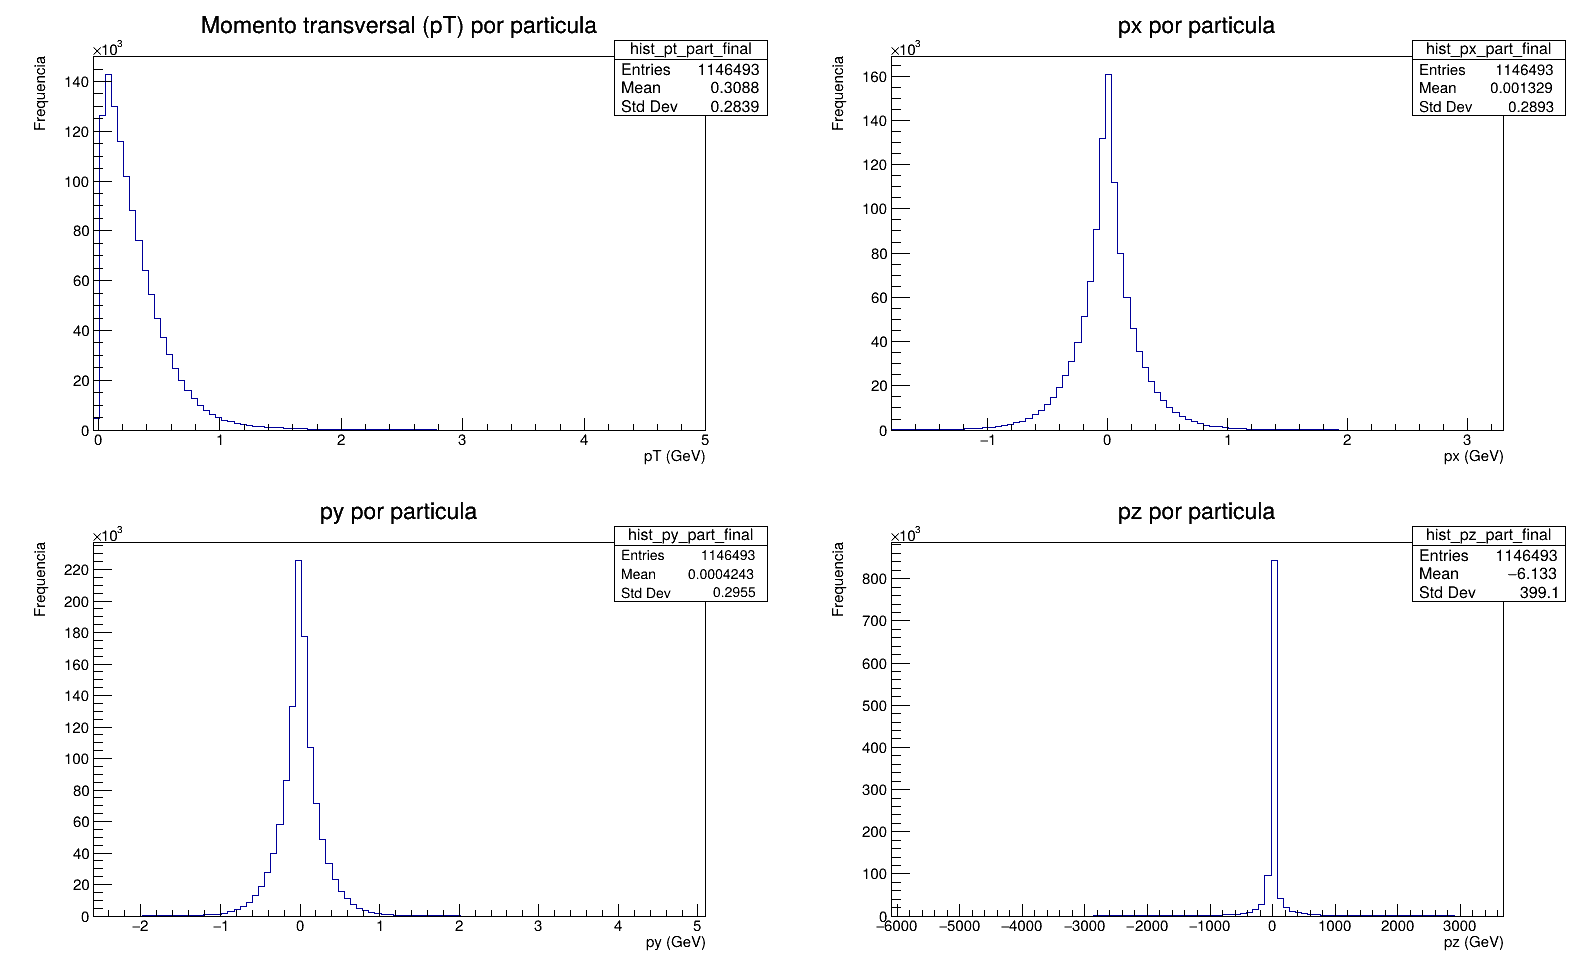
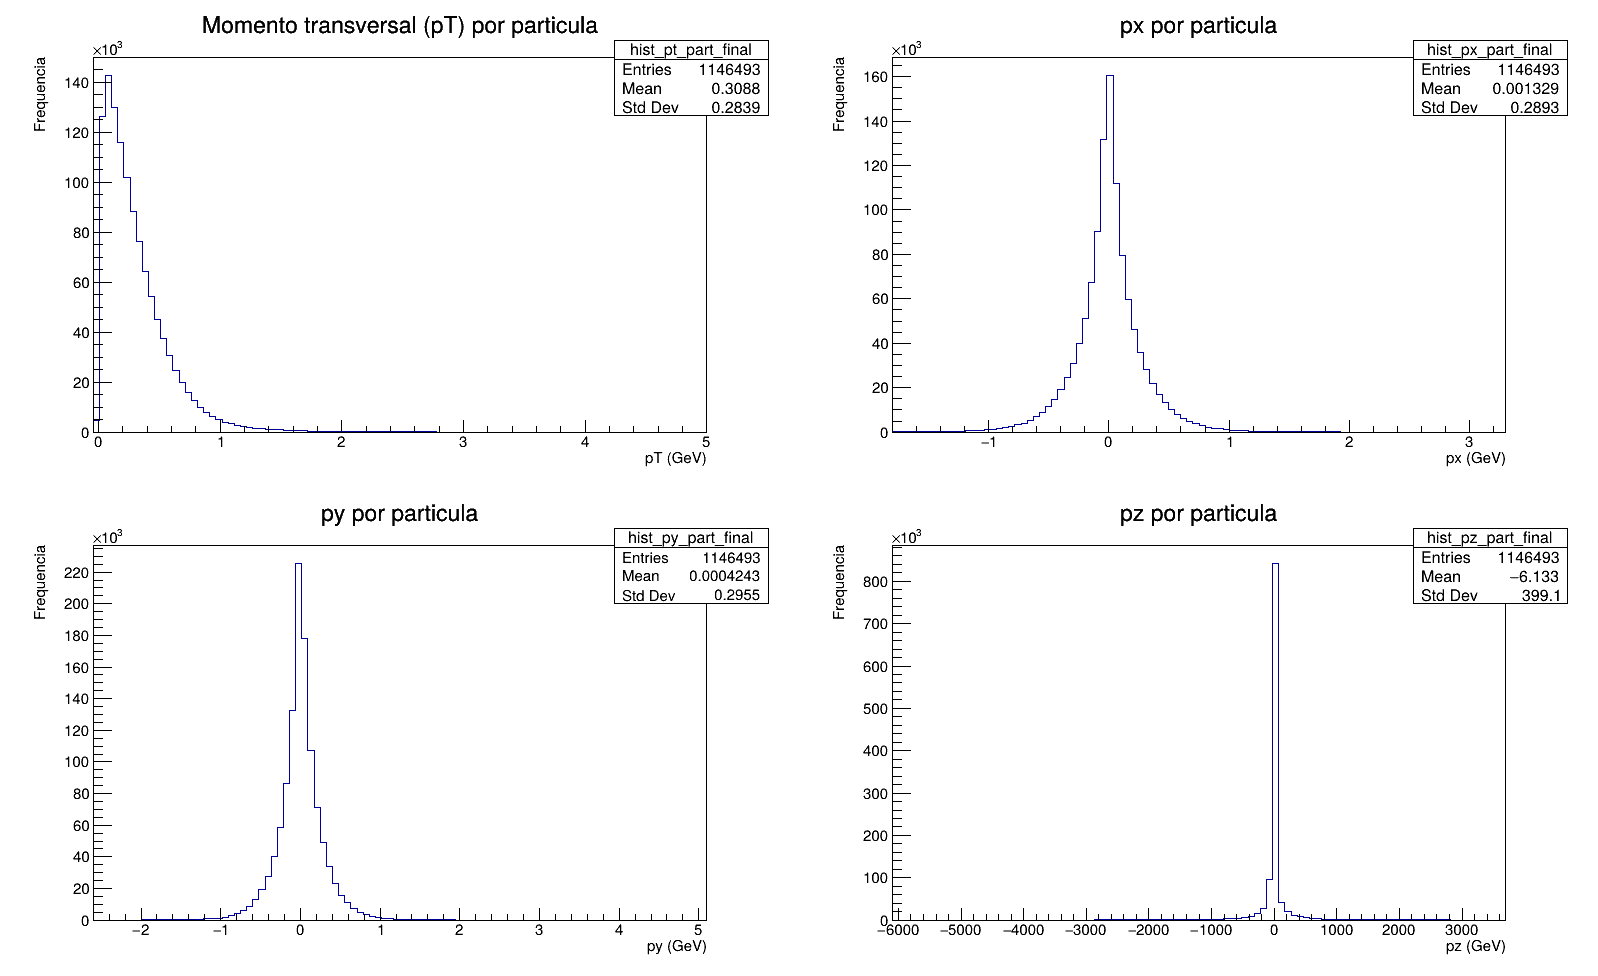
Adiciona graficos de Delta E e energia cinetica

diff --git a/investiga_protons.cpp b/investiga_protons.cpp
@@ -1,0 +1,77 @@
+
+#include "TSystem.h"
+#include "TClonesArray.h"
+#include "TDatabasePDG.h"
+#include "TParticlePDG.h" // ADICIONADO
+#include "TParticle.h"
+#include "TPythia8.h"
+#include "TCanvas.h"
+#include "TMath.h"
+#include "TH1F.h"
+
+void investiga_protons(Int_t nev = 10000)
+{
+  gSystem->Load("libEG");
+  gSystem->Load("libEgPythia8");
+
+  Double_t E_inicial = 14000;   // energia total dos dois feixes (GeV)
+
+  // eixo x = Delta E ; eixo y = multiplicidade / energia cinetica
+  TH2F *hist_mult = new TH2F("hist_mult","Multiplicidade vs Delta E;Delta E (GeV);N particulas",100, 0, 14000, 100, 0, 800);
+  TH2F *hist_ec = new TH2F("hist_ec","Energia cinetica vs Delta E;Delta E (GeV);Soma Ecin (GeV)",100, 0, 14000, 100, 13000, 14000);
+
+  TPythia8 *pythia8 = new TPythia8();
+  pythia8->ReadString("HardQCD:all = on");
+  pythia8->ReadString("Random:setSeed = on");
+  pythia8->ReadString("Random:seed = 43");
+  pythia8->Initialize(2212, 2212, 14000);
+
+  TClonesArray *particles = new TClonesArray("TParticle", 10000);
+
+  for (Int_t iev = 0; iev < nev; iev++)
+  {
+    Double_t soma_ec = 0;
+    Int_t multiplicidade = 0;
+    Double_t E_lead_fwd = 0, E_lead_bwd = 0;   // proton lider para cada sentido, um pz positivo e outro negativo
+
+    pythia8->GenerateEvent();
+    pythia8->ImportParticles(particles, "All");
+    Int_t np = particles->GetEntriesFast();
+
+    for (Int_t ip = 0; ip < np; ip++)
+    {
+      TParticle *part = (TParticle *)particles->At(ip);
+      if (part->GetStatusCode() <= 0) continue;
+
+      Double_t E   = part->Energy();
+      Double_t m   = part->GetMass();
+      Int_t    pdg = part->GetPdgCode();
+      Double_t pz  = part->Pz();
+
+      multiplicidade += 1;
+      soma_ec += E - m;                    // energia cinetica da particula
+
+      if (pdg == 2212 || pdg == 2112) {   // proton OU neutron guarda o mais energetico de cada lado
+        if (pz > 0 && E > E_lead_fwd) E_lead_fwd = E;
+        if (pz < 0 && E > E_lead_bwd) E_lead_bwd = E;
+      }
+    }
+
+    Double_t E_final = E_lead_fwd + E_lead_bwd;   // energia dos dois protons lideres
+    Double_t deltaE  = E_inicial - E_final;       // energia que o feixe "perdeu"
+
+    hist_mult->Fill(deltaE, multiplicidade);
+    hist_ec->Fill(deltaE, soma_ec);
+  }
+
+  TCanvas *c1 = new TCanvas("c1", "Delta E", 1400, 600);
+  c1->Divide(2, 1);
+
+  c1->cd(1);
+  hist_mult->Draw("COLZ");
+
+  c1->cd(2);
+  hist_ec->Draw("COLZ");
+
+  c1->SaveAs("deltaE.png");
+}
